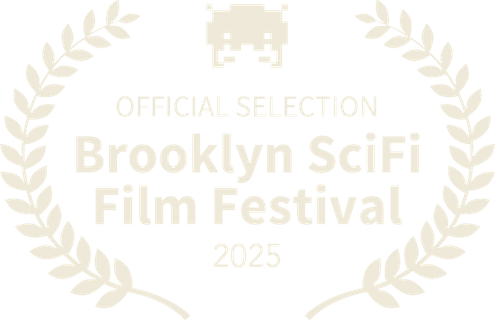
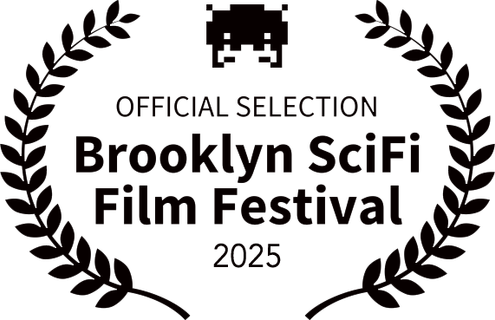
updated festival pages

diff --git a/app/press/page.tsx b/app/press/page.tsx
@@ -1,4 +1,5 @@
 import type { Metadata } from 'next';
+import Image from 'next/image';
 import { Download } from 'lucide-react';
 import GalleryGrid from '@/components/GalleryGrid';
 import FestivalCard from '@/components/FestivalCard';
@@ -11,10 +12,17 @@ export default function PressPage() {
   return (
     <>
       <PageIntro title="Press & Gallery" copy="Official stills, production photography, festival milestones and press materials." compact />
-      <section className="bg-navy py-6 text-white md:py-8">
-        <div className="page-shell flex flex-col gap-5 sm:flex-row sm:items-center sm:justify-between">
-          <div><h2 className="text-xl font-semibold">Press kit</h2><p className="mt-1 text-xs text-white/65">Web-optimized PDF · 26 pages</p></div>
-          <a href={film.pressKit} download className="action-secondary gap-3"><Download size={17} />Download press kit</a>
+      <section id="press-gallery" className="bg-navy py-7 text-white md:py-9">
+        <div className="page-shell grid gap-6 lg:mx-auto lg:max-w-4xl lg:grid-cols-[minmax(0,clamp(12rem,20vw,18rem))_minmax(0,1fr)] lg:items-center lg:gap-10">
+          <div className="order-2 mx-auto w-full max-w-[12rem] sm:max-w-[15rem] lg:order-1 lg:mx-0 lg:max-w-none">
+            <div className="relative aspect-[2/3] overflow-hidden rounded-md bg-black/20 ring-1 ring-white/15">
+              <Image src="/media/clean-slate-poster.jpg" alt="Clean Slate theatrical poster" fill priority quality={90} sizes="(min-width: 1024px) 18rem, 15rem" className="object-contain" />
+            </div>
+          </div>
+          <div className="order-1 flex flex-col items-center gap-4 text-center lg:order-2 lg:items-start lg:text-left">
+            <div><h2 className="text-xl font-semibold">Press kit</h2><p className="mt-1 text-xs text-white/65">Web-optimized PDF · 26 pages</p></div>
+            <a href={film.pressKit} download className="action-secondary gap-3"><Download size={17} />Download press kit</a>
+          </div>
         </div>
       </section>
       <section className="py-9 md:py-12"><div className="page-shell"><h2 className="section-title">Selections & recognition</h2><div className="mt-5 grid gap-3 sm:grid-cols-2 lg:grid-cols-3">{festivals.map((festival) => <FestivalCard key={festival.name} festival={festival} />)}</div></div></section>

diff --git a/components/ContactPage.tsx b/components/ContactPage.tsx
@@ -1,5 +1,6 @@
+import Image from 'next/image';
 import { ExternalLink, Instagram, Mail } from 'lucide-react';
-import { film } from '@/data/film';
+import { film, filmmakers } from '@/data/film';
 
 const inquiryHref = `mailto:${film.contactEmail}?subject=${encodeURIComponent('Clean Slate inquiry')}`;
 
@@ -20,9 +21,20 @@ export default function ContactPage() {
         <a href={`mailto:${film.contactEmail}`} className="mt-3 inline-block break-all text-xs text-muted transition hover:text-ink">
           {film.contactEmail}
         </a>
-        <div className="mt-4 flex flex-wrap gap-x-4 gap-y-1 text-xs">
-          <a href="https://www.instagram.com/alexandergeffen/" target="_blank" rel="noreferrer" className="inline-flex min-h-11 items-center gap-2 rounded-md text-muted transition hover:text-ink"><Instagram size={17} />@Alexandergeffen</a>
-          <a href="https://www.instagram.com/casshuckabay/" target="_blank" rel="noreferrer" className="inline-flex min-h-11 items-center gap-2 rounded-md text-muted transition hover:text-ink"><Instagram size={17} />@casshuckabay</a>
+        <div className="mt-5 grid max-w-md grid-cols-2 gap-3">
+          {filmmakers.map((filmmaker, index) => {
+            const instagramUrl = index === 0 ? 'https://www.instagram.com/alexandergeffen/' : 'https://www.instagram.com/casshuckabay/';
+            const handle = index === 0 ? '@Alexandergeffen' : '@casshuckabay';
+
+            return (
+              <a key={filmmaker.name} href={instagramUrl} target="_blank" rel="noreferrer" className="group min-w-0">
+                <div className="relative aspect-[4/3] overflow-hidden rounded-md bg-panel">
+                  <Image src={filmmaker.image} alt={`${filmmaker.name} headshot`} fill sizes="(min-width: 1024px) 13rem, 50vw" className="object-cover transition duration-300 group-hover:scale-[1.02]" />
+                </div>
+                <span className="mt-2 inline-flex min-h-11 items-center gap-2 text-xs text-muted transition group-hover:text-ink"><Instagram size={17} />{handle}</span>
+              </a>
+            );
+          })}
         </div>
       </div>
     </div>

diff --git a/app/page.tsx b/app/page.tsx
@@ -23,7 +23,7 @@ export default function HomePage() {
         />
         <div className="absolute inset-0 -z-10 bg-[linear-gradient(90deg,rgba(5,11,12,0.92)_0%,rgba(5,11,12,0.72)_55%,rgba(5,11,12,0.42)_100%)]" />
 
-        <div className="page-shell grid min-w-0 grid-cols-1 items-center gap-6 py-8 lg:min-h-[calc(100svh-3.5rem)] lg:grid-cols-[minmax(0,1fr)_clamp(13rem,22vw,20rem)] lg:gap-10 lg:py-10">
+        <div className="page-shell grid min-w-0 grid-cols-1 items-center gap-6 py-8 lg:min-h-[calc(100svh-3.5rem)] lg:py-10">
           <Reveal className="relative z-10 min-w-0 max-w-3xl lg:py-2">
             <h1 className="min-w-0">
               <span className="hero-title-frame">
@@ -35,11 +35,6 @@ export default function HomePage() {
             <div className="mt-5 flex flex-wrap gap-2.5">
               <IntentLink href="/film" className={heroActionClass}>Discover the film</IntentLink>
               <IntentLink href="/videos" className={heroActionClass}>Trailer</IntentLink>
-            </div>
-          </Reveal>
-          <Reveal className="relative w-full max-w-[11rem] justify-self-center lg:max-w-none lg:justify-self-end">
-            <div className="relative aspect-[2/3] overflow-hidden rounded-md bg-navy shadow-2xl shadow-black/40 ring-1 ring-white/20">
-              <Image src="/media/clean-slate-poster.jpg" alt="Clean Slate poster" fill priority quality={90} sizes="(min-width: 1024px) 22rem, 11rem" className="object-cover" />
             </div>
           </Reveal>
         </div>

diff --git a/data/film.ts b/data/film.ts
@@ -63,7 +63,7 @@ export const festivals: Festival[] = [
   { name: 'Midwest Weirdfest', location: 'Eau Claire, Wisconsin', date: 'March 5–8, 2026', recognition: 'Best Short Thriller', laurelDark: '/media/festivals/midwest-dark.png', laurelLight: '/media/festivals/midwest-light.png' },
   { name: 'BraveMaker Film Fest', location: 'Redwood City, California', date: 'July 8–13, 2026', recognition: 'Official Selection', laurelDark: '/media/festivals/bravemaker-dark.png', laurelLight: '/media/festivals/bravemaker-light.png' },
   { name: 'GenreBlast Film Festival', date: 'September 3–6, 2026', recognition: 'Official Selection', laurelDark: '/media/festivals/genreblast-dark.png', laurelLight: '/media/festivals/genreblast-light.png' },
-  { name: 'Brooklyn SciFi Film Festival', location: 'Brooklyn, New York', date: 'October 6–12, 2025', recognition: 'Official Selection', laurelDark: '/media/festivals/brooklyn-dark.png', laurelLight: '/media/festivals/brooklyn-light.png' },
+  { name: 'Brooklyn SciFi Film Festival', location: 'Brooklyn, New York', date: 'October 6–12, 2025', recognition: 'Official Selection', laurelDark: '/media/festivals/brooklyn-light.png', laurelLight: '/media/festivals/brooklyn-dark.png' },
   { name: 'Tees Valley International Film Festival', location: 'Stockton-on-Tees, U.K.', date: 'November 6–8, 2025', recognition: 'Award Nominee', laurelDark: '/media/festivals/tees-dark.png', laurelLight: '/media/festivals/tees-light.png' },
 ];
 

diff --git a/components/FestivalCard.tsx b/components/FestivalCard.tsx
@@ -15,7 +15,7 @@ export default function FestivalCard({ festival, surface = 'paper' }: FestivalCa
         <Image src={festival.laurelLight} alt={`${festival.name} ${festival.recognition} laurel`} width={720} height={320} className={imageClass} />
       ) : (
         <>
-          <Image src={festival.laurelDark} alt={`${festival.name} ${festival.recognition} laurel`} width={720} height={320} className={`${imageClass} dark:hidden`} />
+          <Image src={festival.laurelDark} alt={`${festival.name} ${festival.recognition} laurel`} width={720} height={320} className={`${imageClass} dark:hidden ${festival.name === 'Brooklyn SciFi Film Festival' ? 'brightness-0' : ''}`} />
           <Image src={festival.laurelLight} alt="" aria-hidden width={720} height={320} className={`${imageClass} hidden dark:block`} />
         </>
       )}
